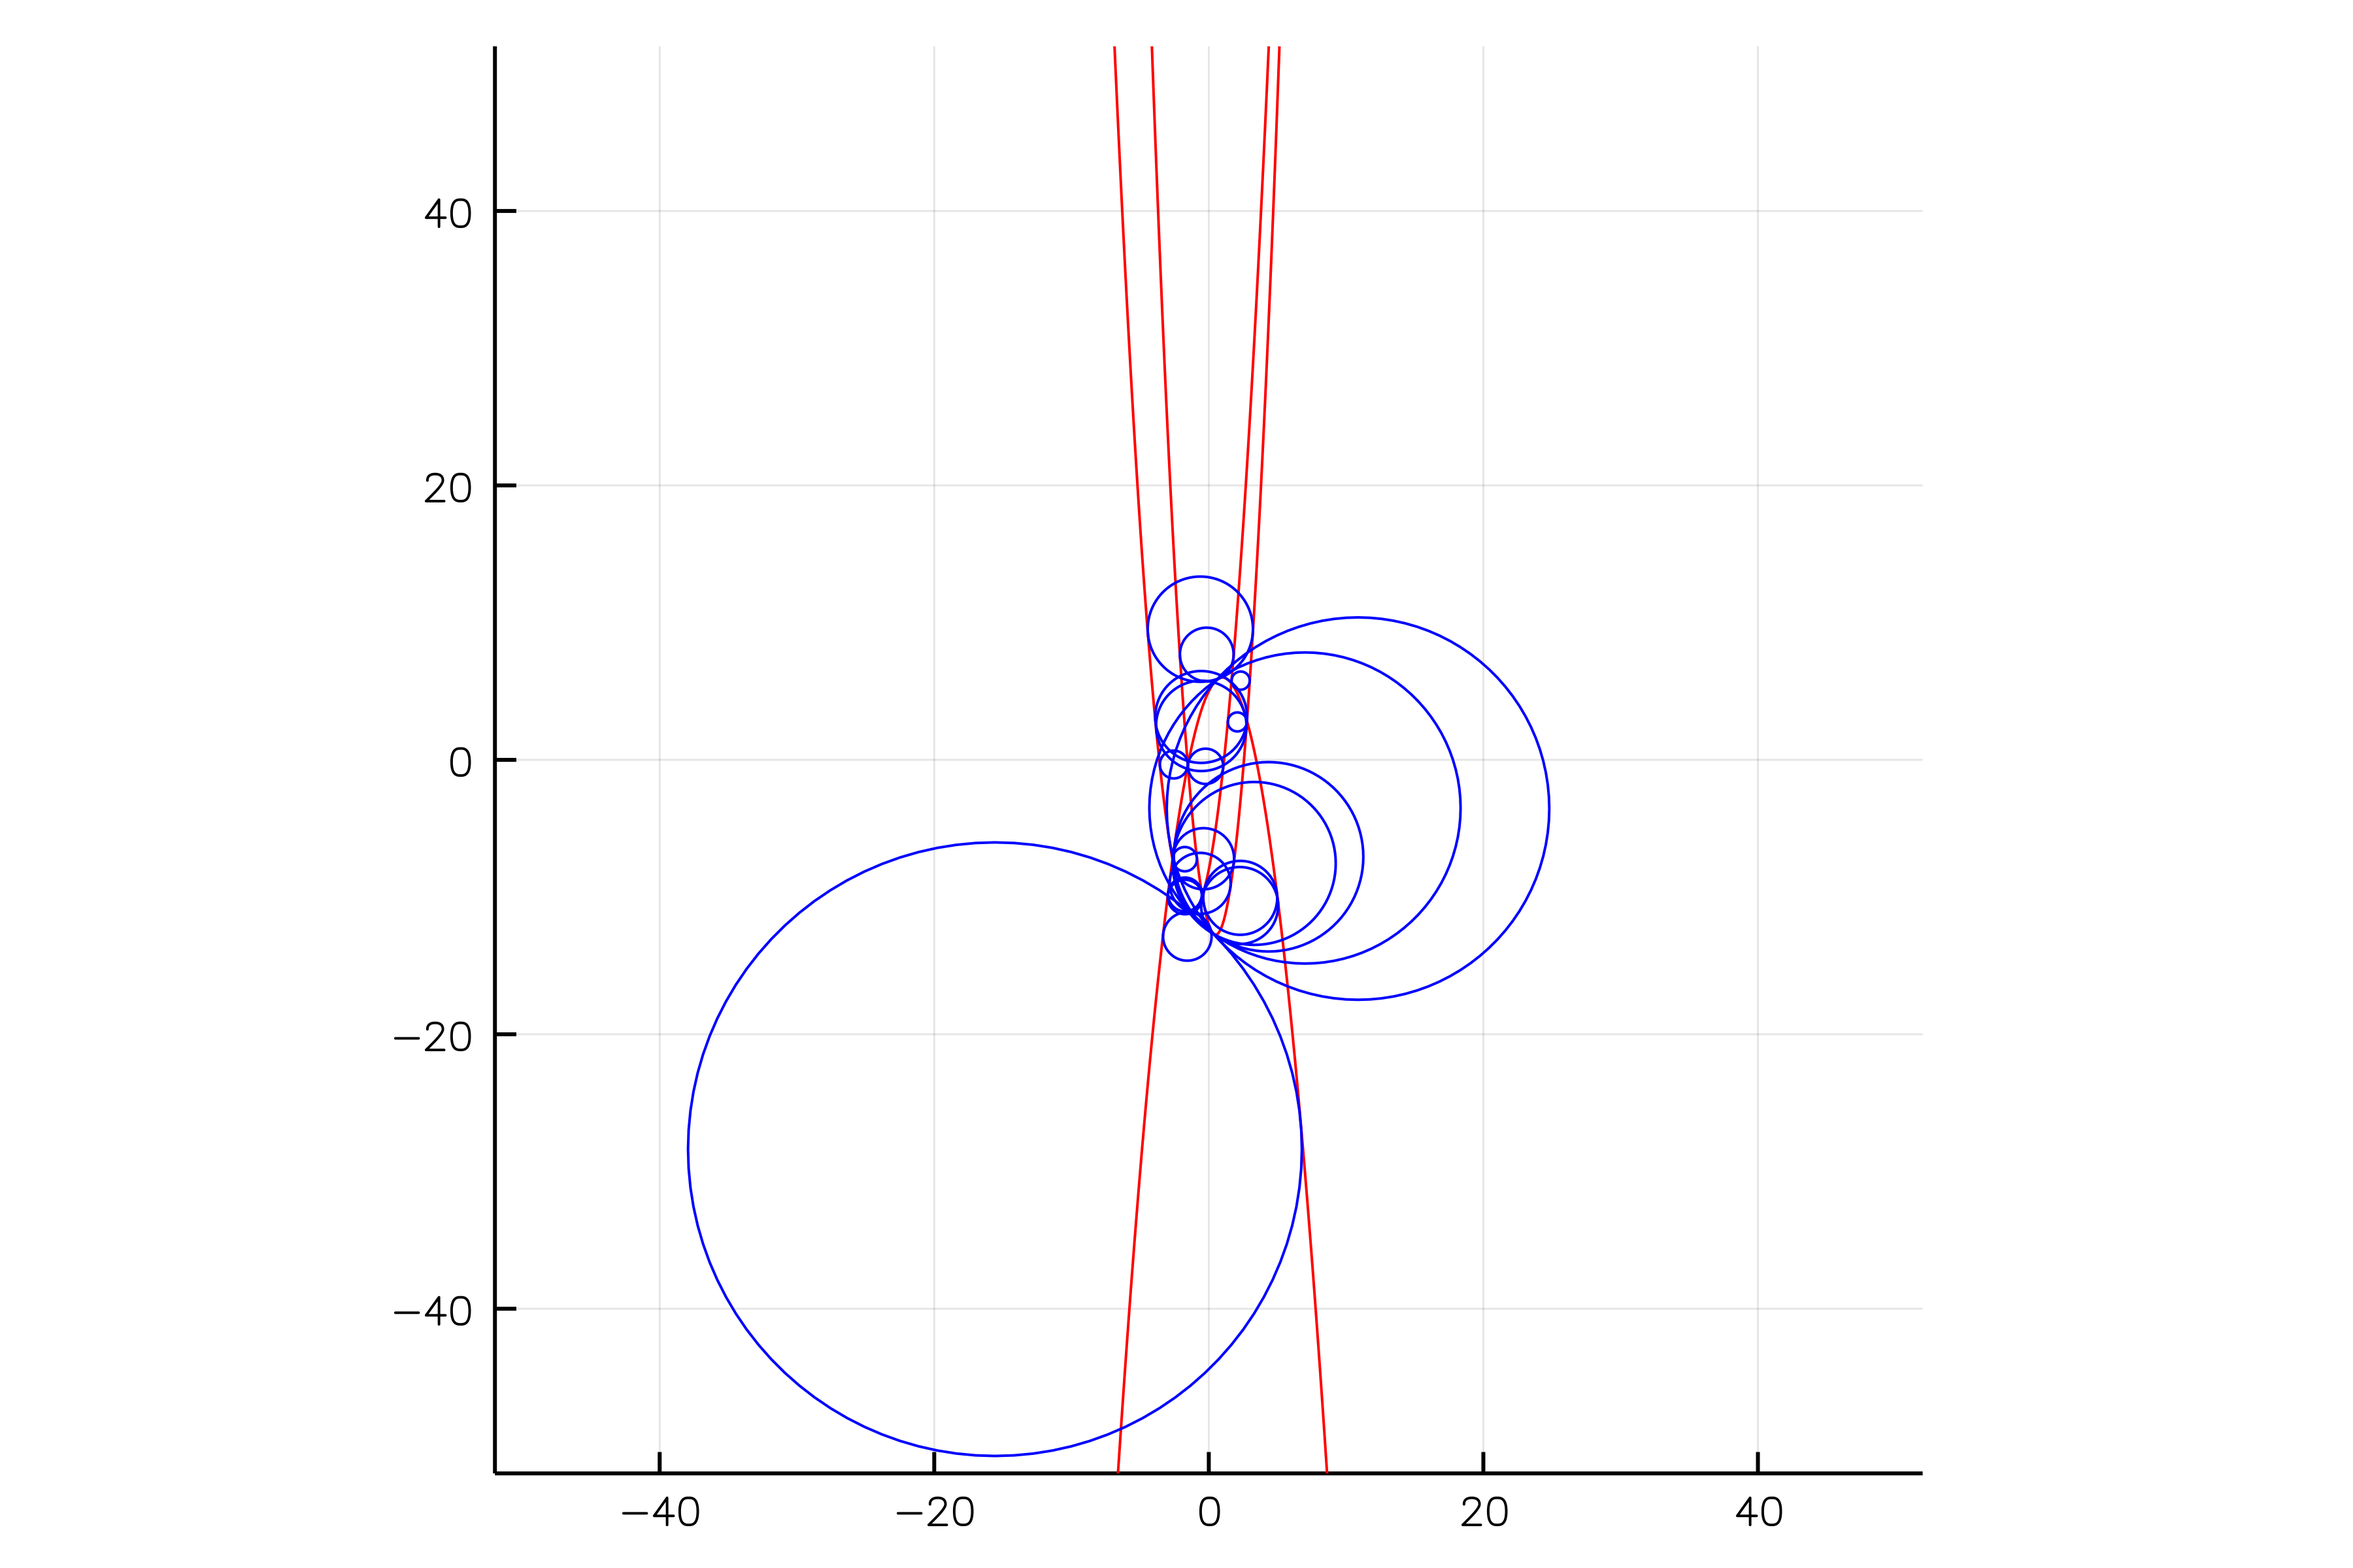
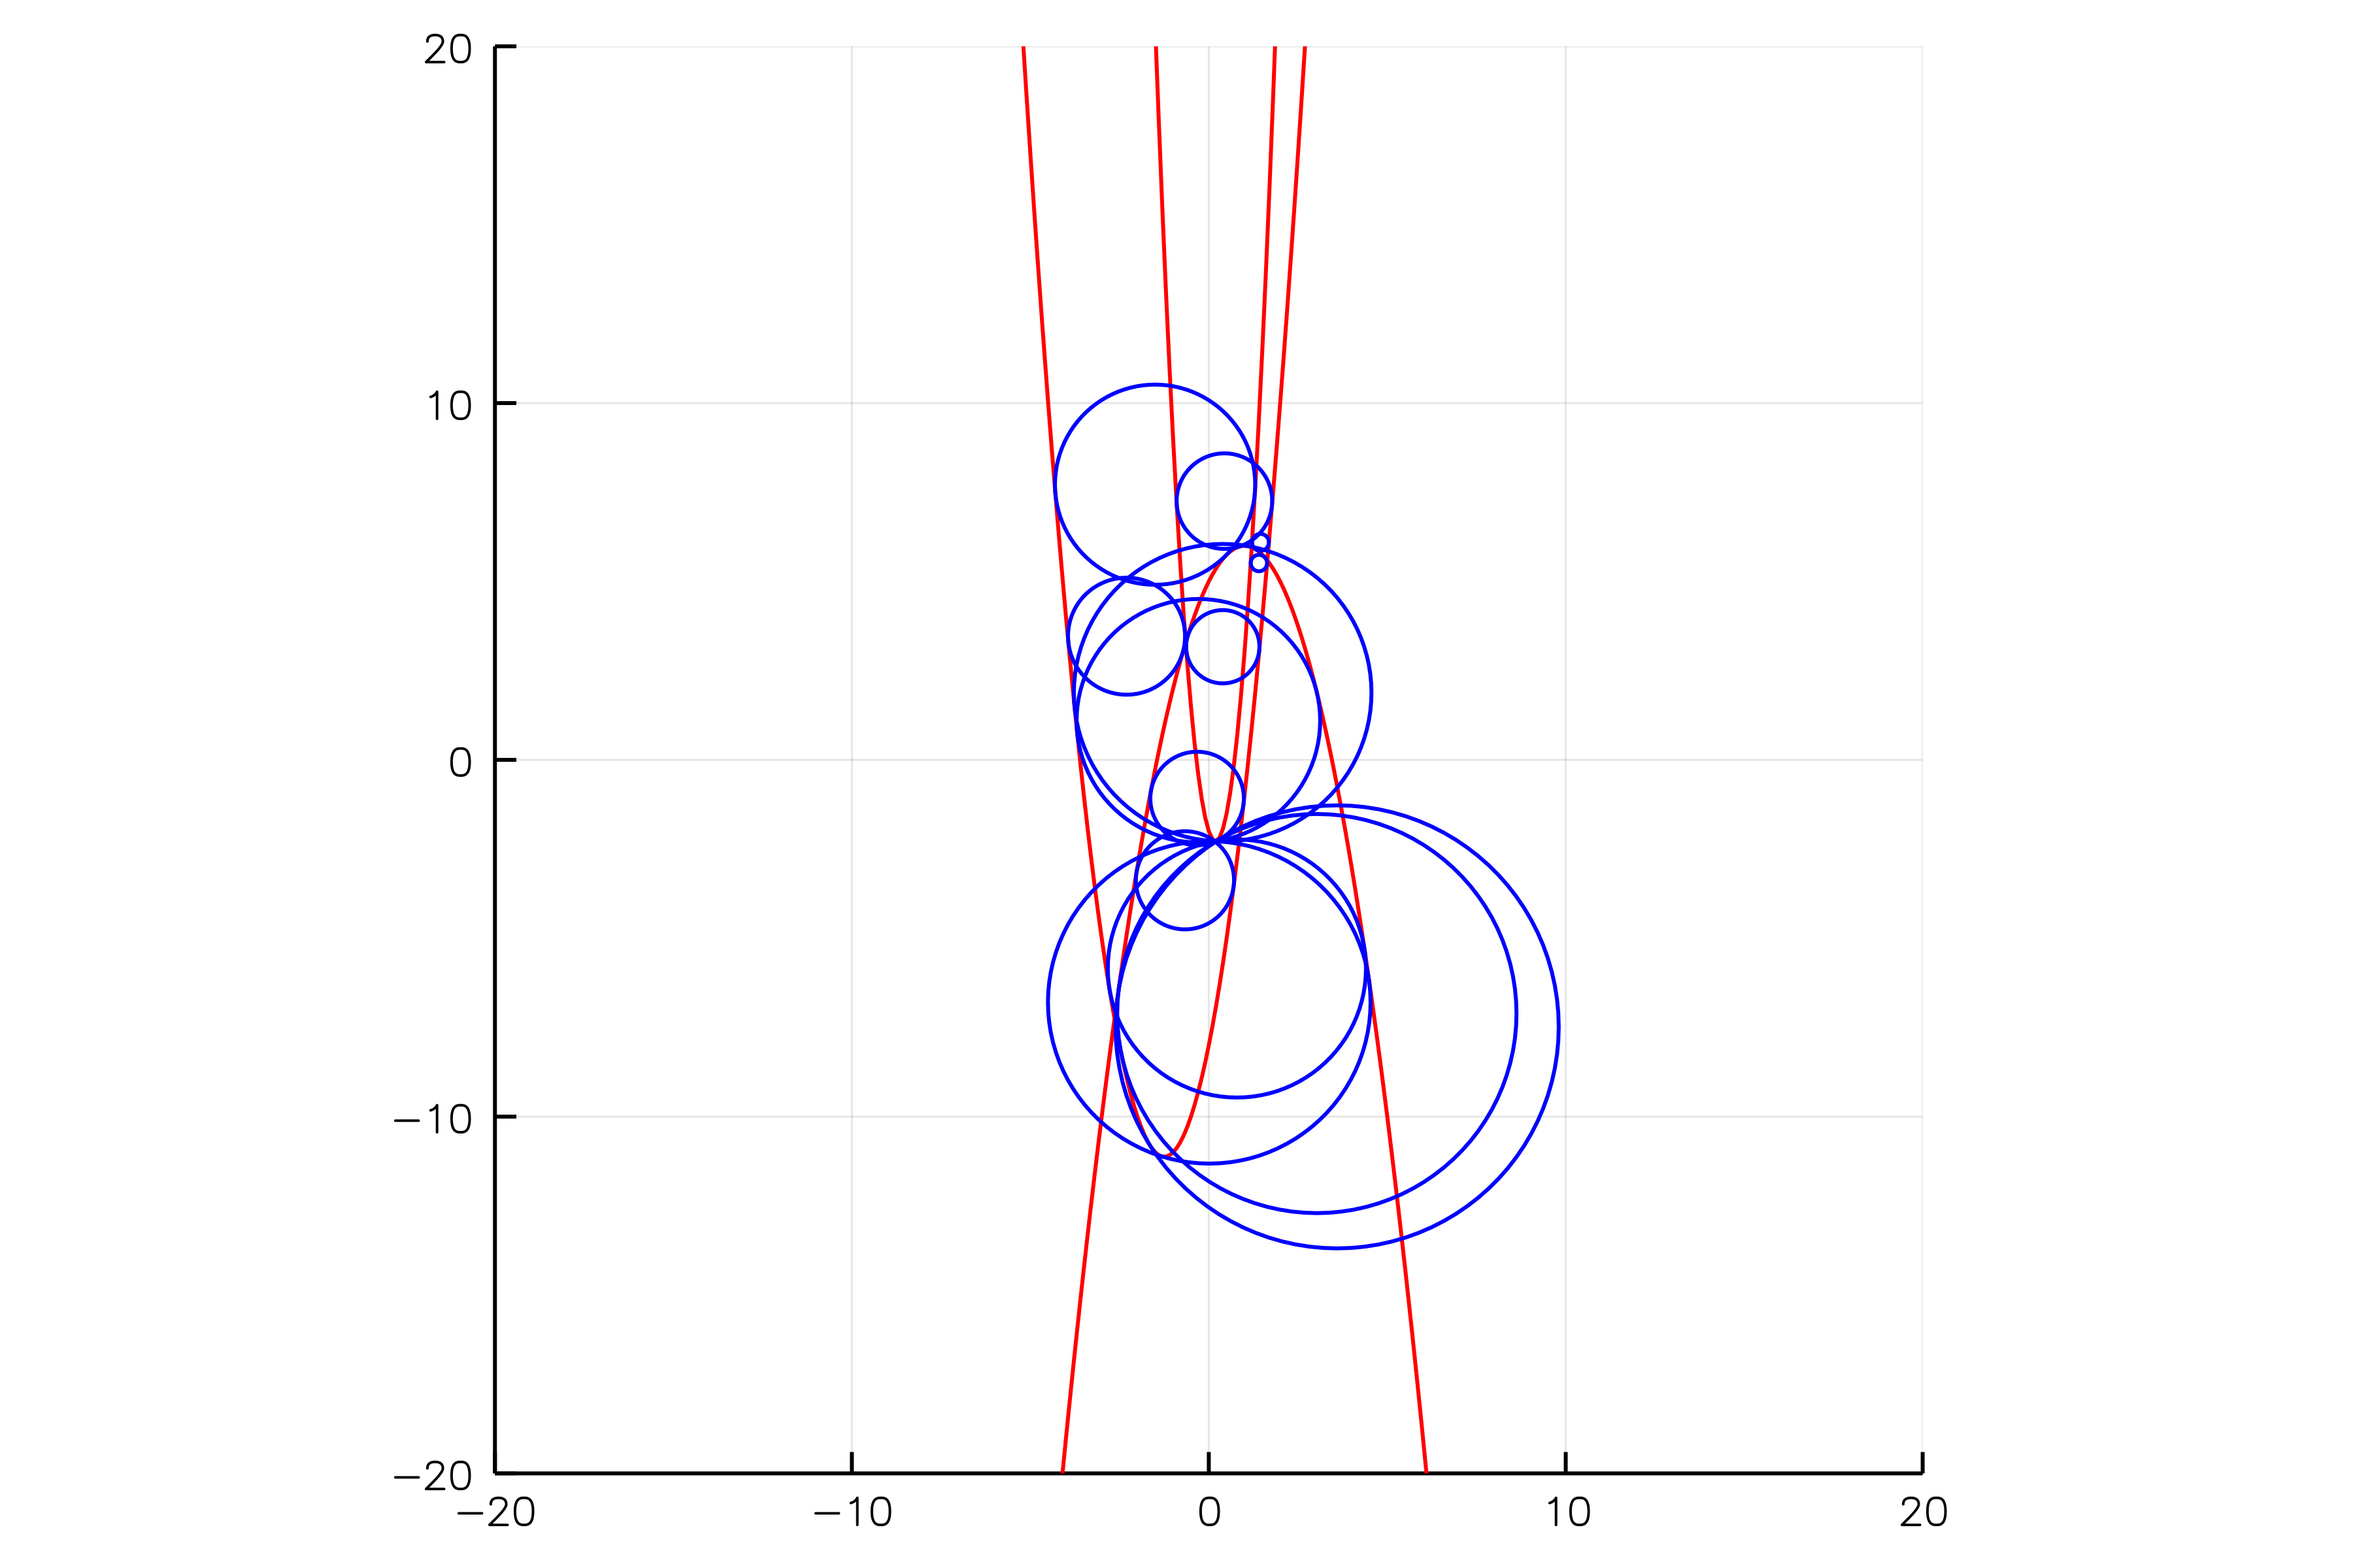
Deploy www.JuliaHomotopyContinuation.org to github.com/JuliaHomotopyContinuation/juliahomotopycontinuation.github.io.git:master

diff --git a/blog/circles_conics/index.html b/blog/circles_conics/index.html
@@ -163,8 +163,8 @@
     
     <p>In the previous blog entry I mentioned the Macaulay2 interface for HomotopyContinuation.jl that is currently under development. In this blog post I want to show how useful this interface can be.</p>
 
-<p>Consider the problem of computing all circles that are tangent to 3 given <a href="https://en.wikipedia.org/wiki/Conic_section">conics</a> $C_1,C_2,C_3 \subset \mathbb{R}^2$. For instance, the following picture shows 21 circles that are tangent to
- $$C_1 = \{y=-x^2+2x+5\}, C_2 = \{y = 2x^2+5x-8\}, C_3 = \{y = 3x^2-3x-12\}.$$</p>
+<p>Consider the problem of computing all circles that are tangent to 3 given <a href="https://en.wikipedia.org/wiki/Conic_section">conics</a> $C_1,C_2,C_3 \subset \mathbb{R}^2$. For instance, the following picture shows 14 circles that are tangent to
+ $$C_1 = \{y=-x^2+2x+5\}, C_2 = \{y = 2x^2+5x-8\}, C_3 = \{y = 8x^2-3x-2\}.$$</p>
 
 <p><img src="/images/circles.png" alt="img" /></p>
 
